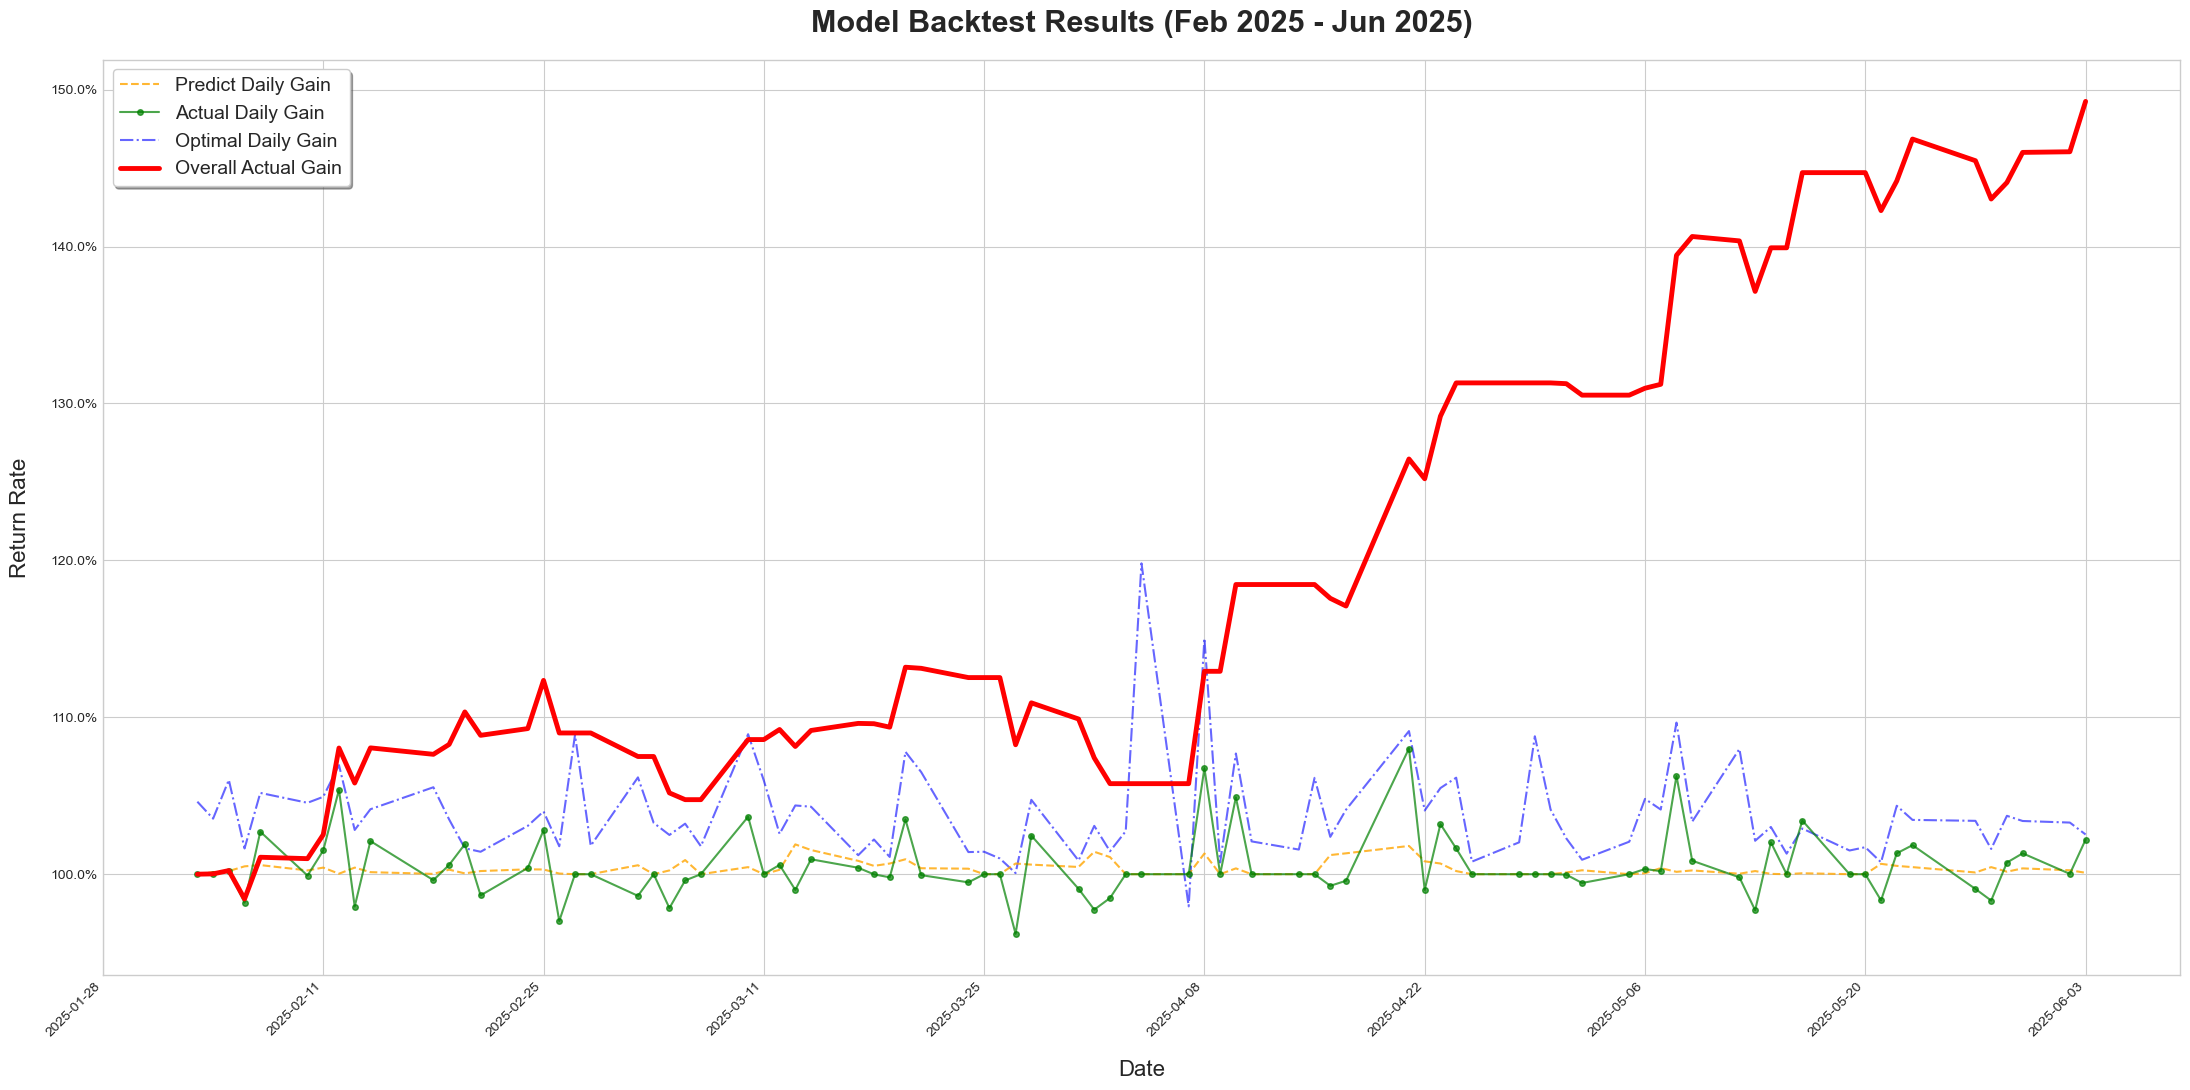
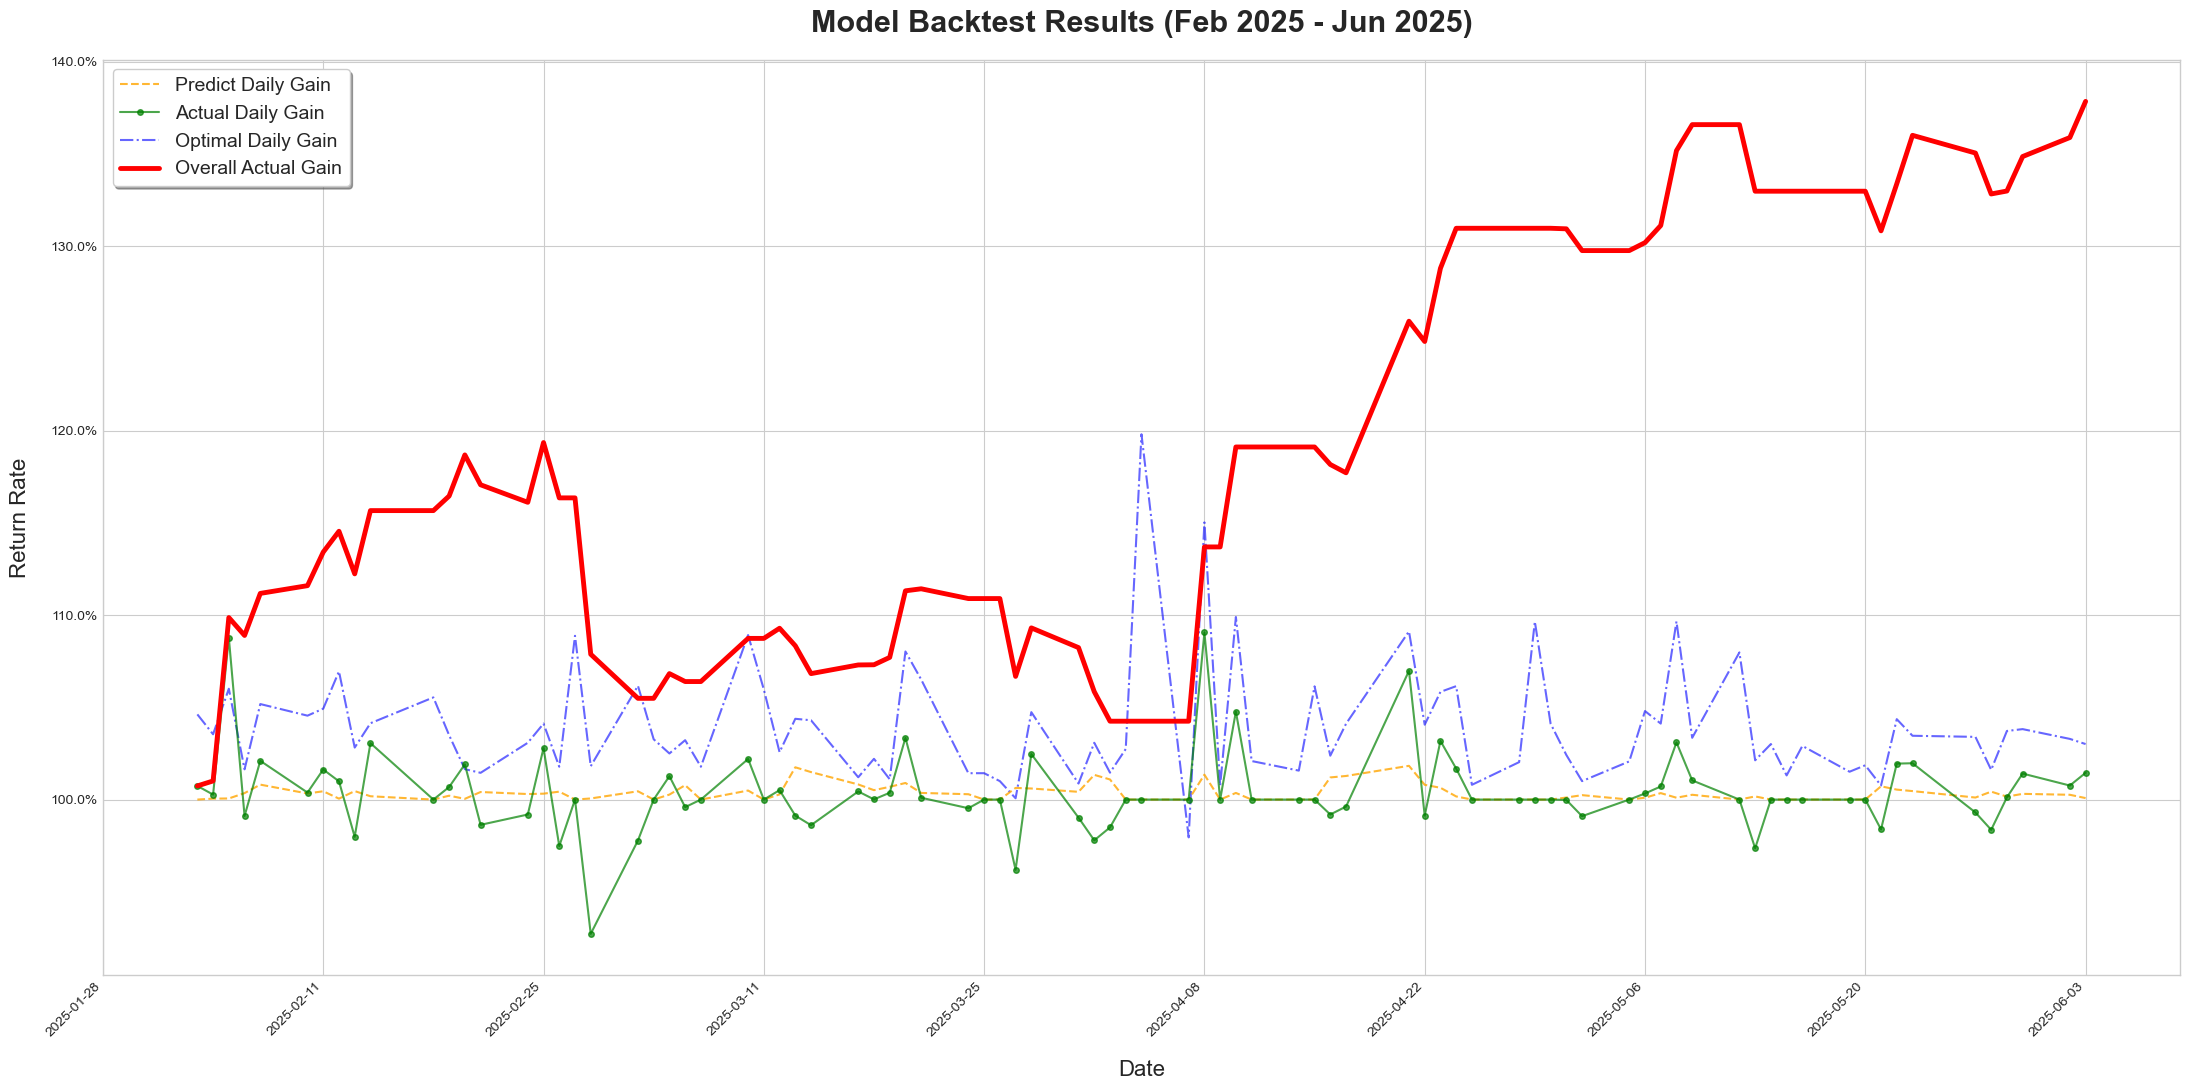
[document] fix algorithm error for backtest and predict data truncation, improve target stocks, ready for ablation study on CLIP lower and upper quantile ratio in feature engineering

diff --git a/ml4investment/utils/feature_engineering.py b/ml4investment/utils/feature_engineering.py
@@ -666,9 +666,11 @@ def process_features_for_train(daily_dict: dict, test_number: int = 63, seed: in
             boolean_cols = X_train_dropna.select_dtypes(include='bool').columns.tolist()
             numerical_cols = [col for col in X_train_dropna.columns if col not in boolean_cols]
 
-            quantiles = X_train_dropna[numerical_cols].quantile([0.05, 0.95])
-            lower_bound = quantiles.xs(0.05)
-            upper_bound = quantiles.xs(0.95)
+            lower_ratio = settings.CLIP_LOWER_QUANTILE_RATIO
+            upper_ratio = settings.CLIP_UPPER_QUANTILE_RATIO
+            quantiles = X_train_dropna[numerical_cols].quantile([lower_ratio, upper_ratio])
+            lower_bound = quantiles.xs(lower_ratio)
+            upper_bound = quantiles.xs(upper_ratio)
 
             X_train_clipped = X_train_dropna.copy()
 

diff --git a/ml4investment/config/global_settings.py b/ml4investment/config/global_settings.py
@@ -29,6 +29,8 @@ STOCK_SECTOR_ID_MAP = {'MSFT': 1, 'NVDA': 1, 'AAPL': 1, 'AVGO': 1, 'TSM': 1, 'OR
                        'NEE': 9, 
                        'LIN': 11, 'APD': 11, 'FCX': 11, 'DOW': 11, 'CLF': 11,
                        'SPY': 12, 'QQQ': 12, 'VUG': 12, 'EFA': 12, 'GLD': 12, 'VTV': 12, 'DIA': 12, 'KWEB': 12}
+CLIP_LOWER_QUANTILE_RATIO = 0.05
+CLIP_UPPER_QUANTILE_RATIO = 0.95
 
 # Model Training
 TRAINING_DATA_START_DATE = '2016-01-01'
@@ -41,5 +43,4 @@ SIGN_ACCURACY_THRESHOLD = 0.60
 
 # Evaluation
 TEST_DAY_NUMBER = 84
-CALCULATING_FEATURE_DAYS = 60
 NUMBER_OF_STOCKS_TO_BUY = 3

diff --git a/ml4investment/backtest.py b/ml4investment/backtest.py
@@ -25,8 +25,9 @@ def backtest(train_stock_list:list, predict_stock_list: list, fetched_data: dict
     set_random_seed(seed)
 
     backtest_data = {}
+    train_data_start_date = settings.TRAINING_DATA_START_DATE
     for stock in train_stock_list:
-        backtest_data[stock] = fetched_data[stock].tail((settings.CALCULATING_FEATURE_DAYS + settings.TEST_DAY_NUMBER) * settings.DATA_PER_DAY)
+        backtest_data[stock] = fetched_data[stock].loc[train_data_start_date:]
     logger.info(f"Load input fetched data")
 
     daily_features_data = calculate_features(backtest_data)

diff --git a/ml4investment/predict.py b/ml4investment/predict.py
@@ -23,8 +23,9 @@ def predict(train_stock_list: list, predict_stock_list: list, fetched_data: dict
     set_random_seed(seed)
 
     predict_data = {}
+    train_data_start_date = settings.TRAINING_DATA_START_DATE
     for stock in train_stock_list:
-        predict_data[stock] = fetched_data[stock].tail((settings.CALCULATING_FEATURE_DAYS + 1) * settings.DATA_PER_DAY)
+        predict_data[stock] = fetched_data[stock].loc[train_data_start_date:]
     logger.info(f"Load input fetched data")
 
     daily_features_data = calculate_features(predict_data)

diff --git a/ml4investment/utils/model_predicting.py b/ml4investment/utils/model_predicting.py
@@ -35,6 +35,6 @@ def model_predict(model: lgb.Booster, x_predict: pd.DataFrame) -> float:
         logger.error(f"Prediction failed: {str(e)}")
         raise RuntimeError("Prediction error occurred") from e
     
-    prediction = round(float(y_pred[0]), 4)
+    prediction = float(y_pred[0])
     
     return prediction
